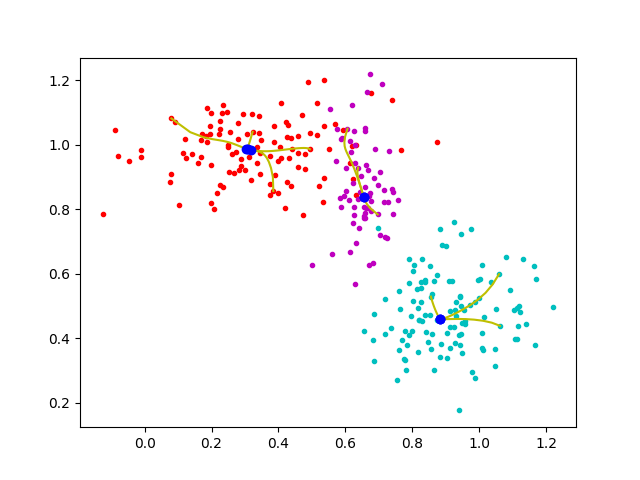
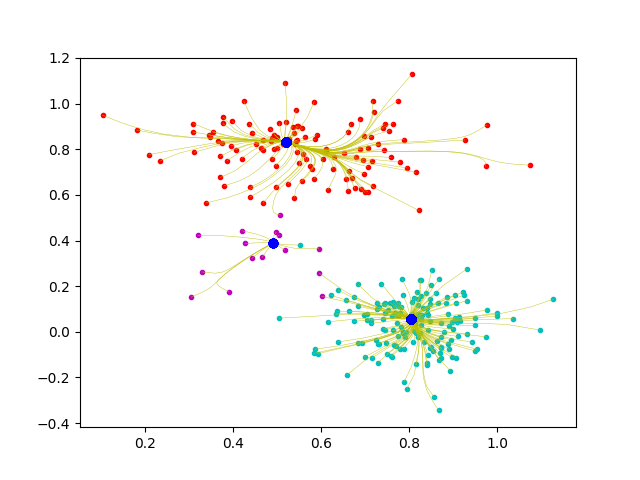
better plot, n_centroids = n_samples

diff --git a/src/meanshift.py b/src/meanshift.py
@@ -4,8 +4,8 @@ import matplotlib.pyplot as plt
 import time
 
 n_samples = 300 # sample size
-n_centroids = 10 # number of centroids
-n_updates = 30 # number of updates
+n_centroids = n_samples # number of centroids
+n_updates = 50 # number of updates
 
 n_gaussians = 3 # 'true' number of clusters
 
@@ -66,7 +66,7 @@ def plot(X, C, sbs_C):
         plt.plot(ps[:, 0], ps[:, 1], colors[i] + '.')
 
     for i in range(sbs_C.shape[1]):
-        plt.plot(sbs_C[:, i, 0], sbs_C[:, i, 1], 'y')
+        plt.plot(sbs_C[:, i, 0], sbs_C[:, i, 1], 'y', linewidth=0.3)
 
     plt.plot(C[:, 0], C[:, 1], 'bo')
 
@@ -76,7 +76,8 @@ def plot(X, C, sbs_C):
 if __name__ == "__main__":
     X = create_data(n_samples, n_gaussians)
     stacked_X = np.vstack(X)
-    C = stacked_X[np.random.randint(stacked_X.shape[0], size=n_centroids), :]
+    # C = stacked_X[np.random.randint(stacked_X.shape[0], size=n_centroids), :]
+    C = stacked_X
     ms_C, sbs_ms_C = mean_shift(n_updates)
 
     sess = tf.Session()

diff --git a/README.md b/README.md
@@ -16,12 +16,11 @@ Clustering using [mean shift](http://homepages.inf.ed.ac.uk/rbf/CVonline/LOCAL_C
 To set parameters, open `src/meanshift.py`
 
     n_samples = 300 # sample size
-    n_centroids = 10 # number of centroids
-    n_updates = 30 # number of updates
+    n_centroids = n_samples # number of centroids
+    n_updates = 50 # number of updates
     window_radius = .1 # window radius for the Gaussian kernels
     n_gaussians = 3 # 'true' number of clusters
-    
-    
+       
 Execute
 
     python3 src/meanshift.py
